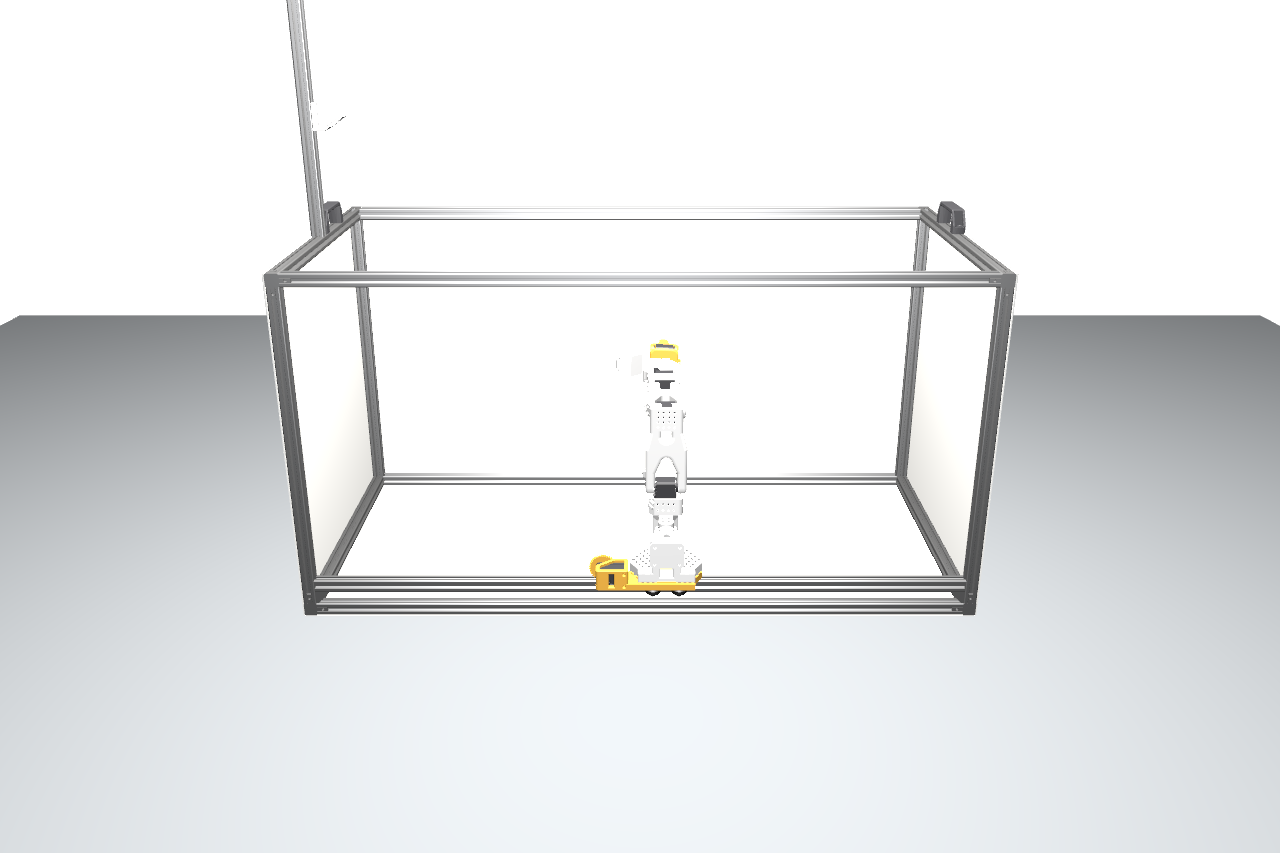
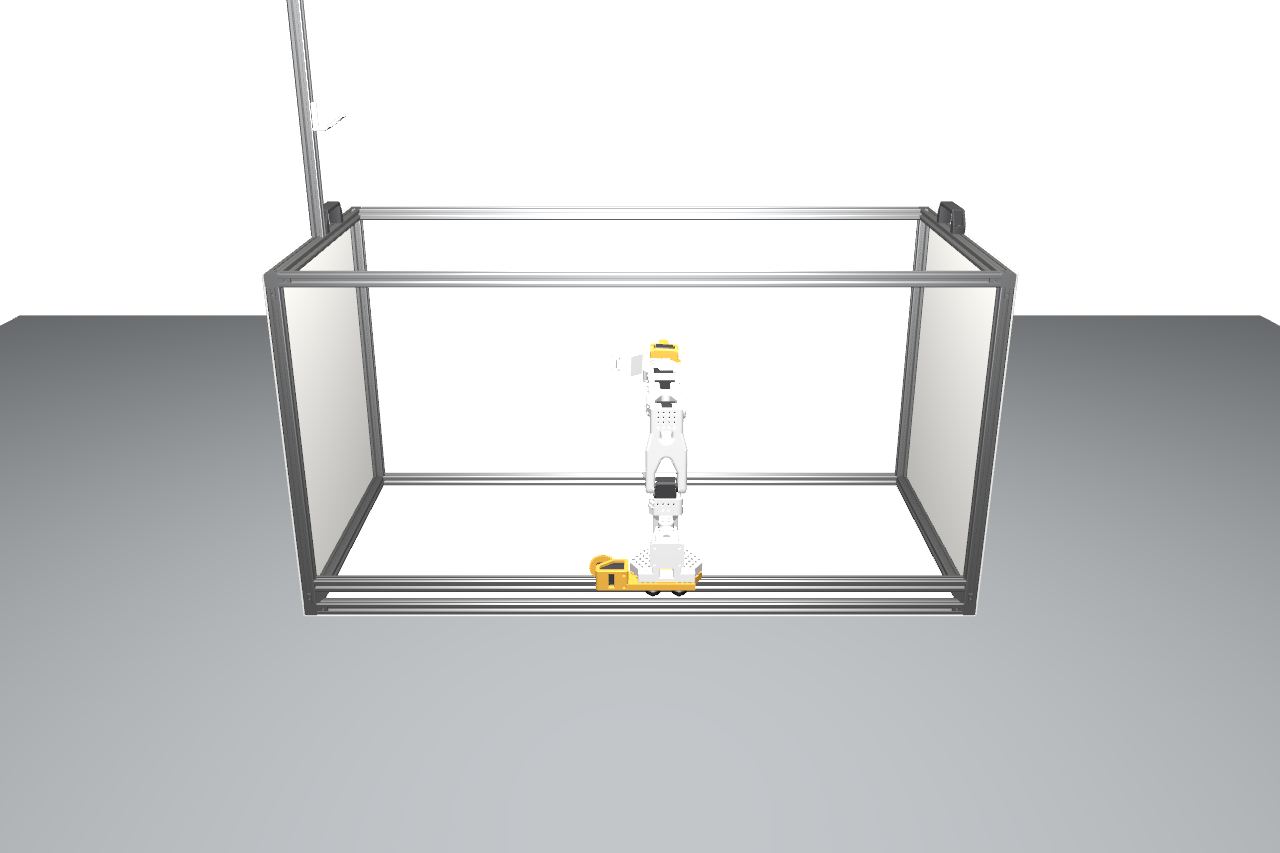
USD: tone down lighting, add frame_wrist_camera + frame_overhead_camera views

diff --git a/simulation/usd/README.md b/simulation/usd/README.md
@@ -24,13 +24,23 @@ Colors follow the same scheme as the URDF/MJCF.
 ## Lighting
 
 Soft light from above: a large rectangular **area light** over the frame (like the softbox
-in the real rig) plus a dim **dome** for ambient fill. A framing **camera** (`/World/Camera`)
-is included.
+in the real rig) plus a dim **dome** for ambient fill.
+
+## Cameras
+
+Three cameras: `/World/Camera` (the framing view above) plus the two on-robot cameras at the
+same frames as the URDF/MJCF:
+
+| `frame_wrist_camera` | `frame_overhead_camera` |
+|:---:|:---:|
+| ![wrist](../assets/usd_cam_wrist.png) | ![overhead](../assets/usd_cam_overhead.png) |
 
 ## Render
 
 ```bash
 usdrecord --camera /World/Camera --imageWidth 1600 so101_on_frame.usd out.png
+# or a robot camera:
+usdrecord --camera /World/frame_wrist_camera --imageWidth 960 so101_on_frame.usd wrist.png
 ```
 
 (Any USD-aware renderer works; the preview above is Hydra/Storm.)

diff --git a/README.md b/README.md
@@ -107,4 +107,6 @@ Same setup, plus what each camera sees:
 overhead lighting, for usdview / Blender / Omniverse. See
 **[simulation/usd/README.md](simulation/usd/README.md)**.
 
-![USD render](simulation/assets/usd_render.png)
+| Setup | `frame_wrist_camera` | `frame_overhead_camera` |
+|:---:|:---:|:---:|
+| ![USD render](simulation/assets/usd_render.png) | ![wrist camera](simulation/assets/usd_cam_wrist.png) | ![overhead camera](simulation/assets/usd_cam_overhead.png) |
